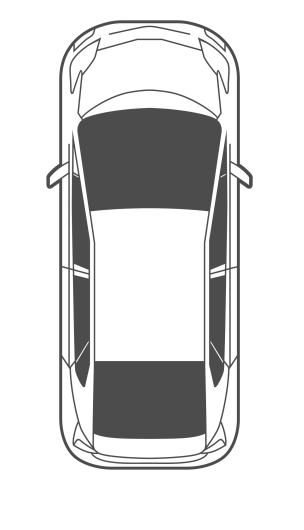
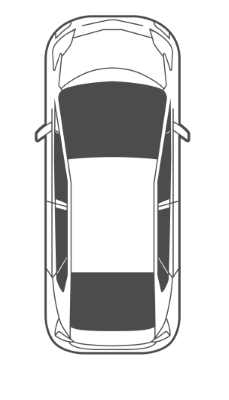
IL

diff --git a/SRC/JS/ReparationScript.js b/SRC/JS/ReparationScript.js
@@ -49,3 +49,31 @@ const $navbarBurgers = Array.prototype.slice.call(document.querySelectorAll('.na
 //         }
 //     })
 // });
+
+function ChangeFace(id) {
+    let text = id
+    var aff = document.getElementById(text);
+    var voi = document.getElementById('voiture');
+    if (text.indexOf("face") == 0) {
+        document.getElementById('voiture').src = "https://github.com/ineslehbib/Reparation/blob/master/SRC/assets/face.png?raw=true";
+        console.log("ok");
+    }
+    if (text.indexOf("arriere") == 0) {
+        document.getElementById('voiture').src = "https://github.com/ineslehbib/Reparation/blob/master/SRC/assets/arriere.png?raw=true";
+    }
+    if (text.indexOf("arriere") == 0) {
+        document.getElementById('voiture').src = "https://github.com/ineslehbib/Reparation/blob/master/SRC/assets/arriere.png?raw=true";
+    }
+    if (text.indexOf("gauche") == 0) {
+        document.getElementById('voiture').src = "https://github.com/ineslehbib/Reparation/blob/master/SRC/assets/gauche.png?raw=true";
+    }
+    if (text.indexOf("droite") == 0) {
+        document.getElementById('voiture').src = "https://github.com/ineslehbib/Reparation/blob/master/SRC/assets/droite.png?raw=true";
+
+    }
+
+    if (text.indexOf("haut") == 0) {
+        document.getElementById('voiture').src = "https://github.com/ineslehbib/Reparation/blob/master/SRC/assets/haut.png?raw=true";
+
+    }
+}
